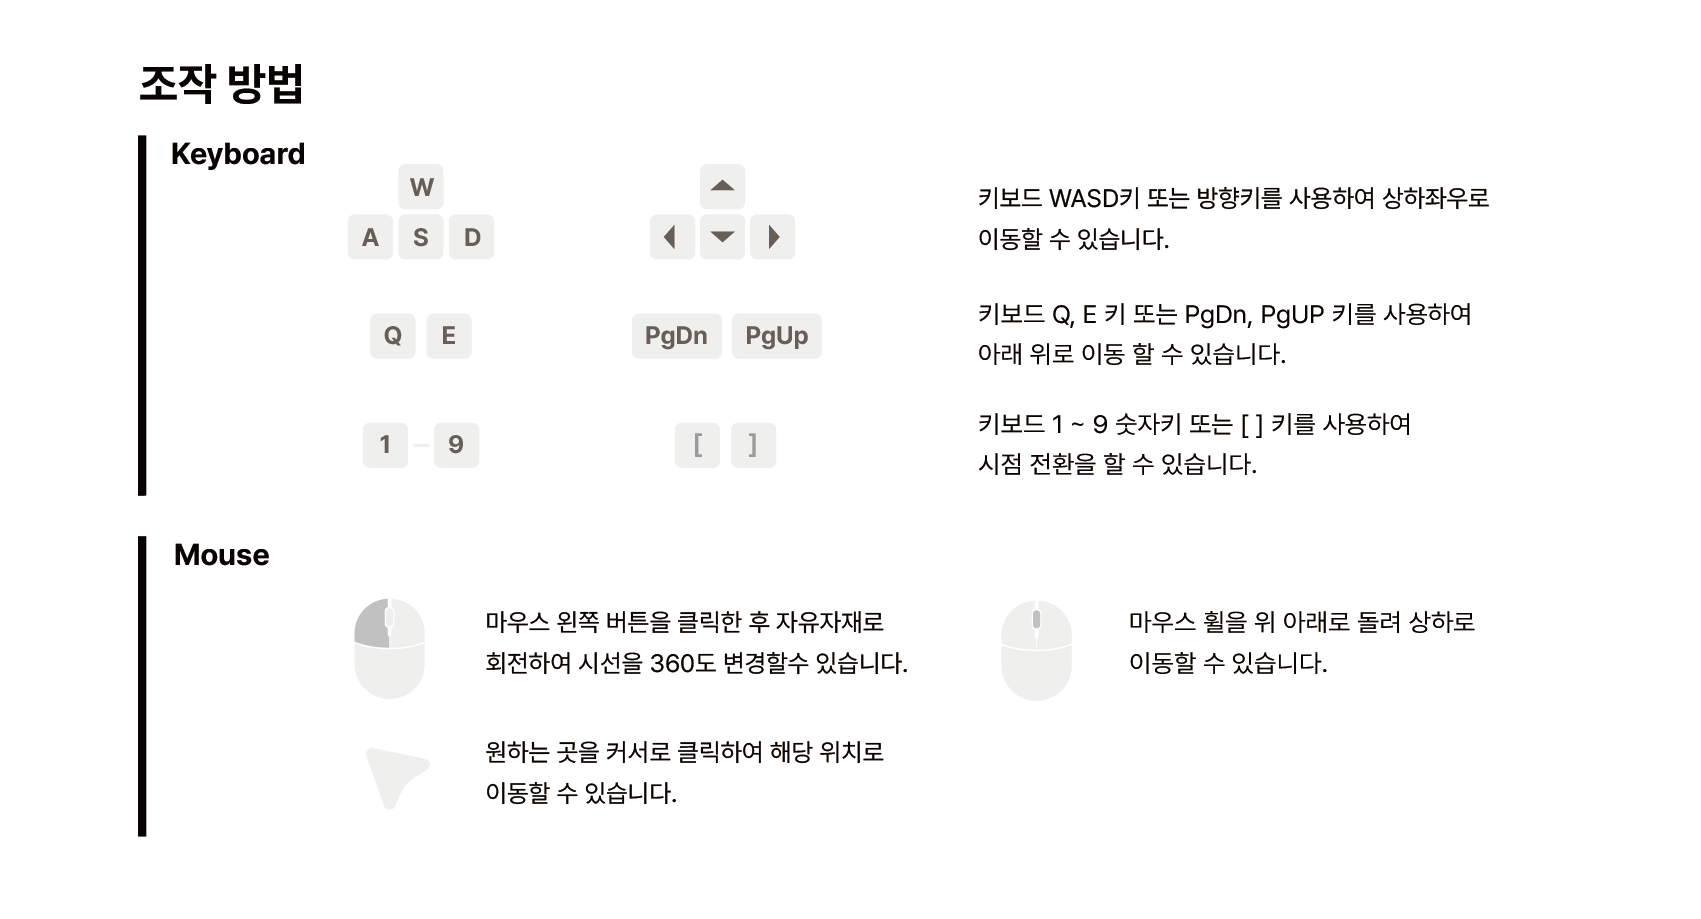
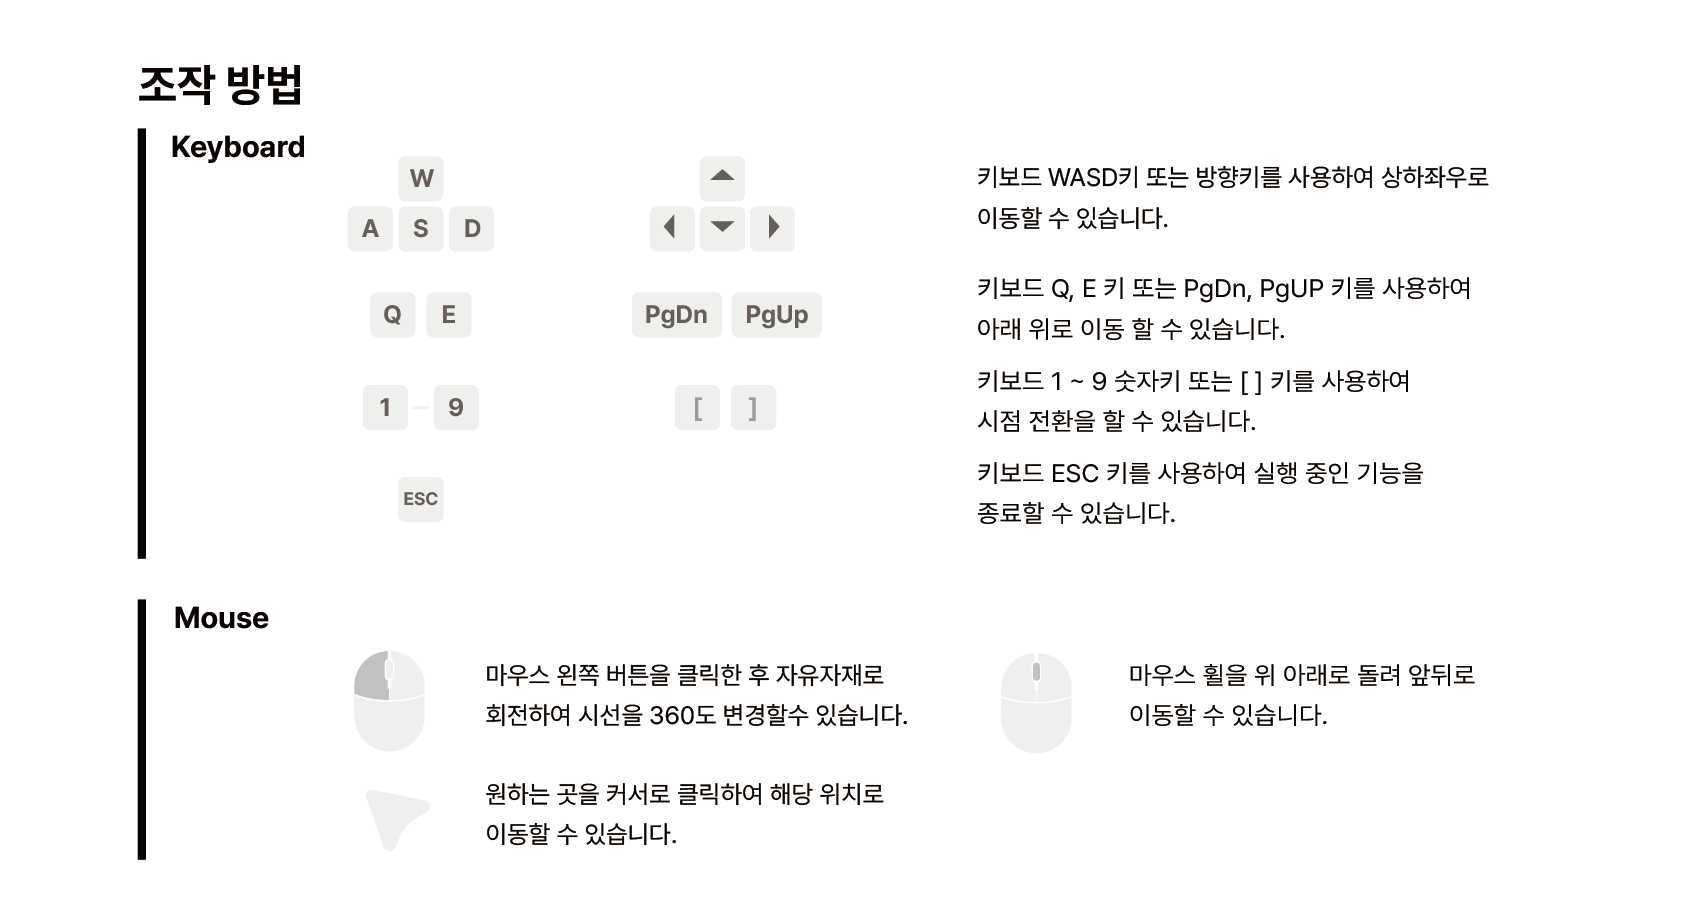
도움말 이미지 변경

diff --git a/gs_arts_center_ui.css b/gs_arts_center_ui.css
@@ -1103,14 +1103,13 @@ textarea,
 }
 
 .manual-ui-body {
-    width: 100%;
     display: flex;
     flex-direction: column;
     align-items: center;
 }
 
 .manual-ui-body img {
-    width: 100%;
+    width: 82vw;
     height: auto;
     display: block;
     border-radius: 0;
